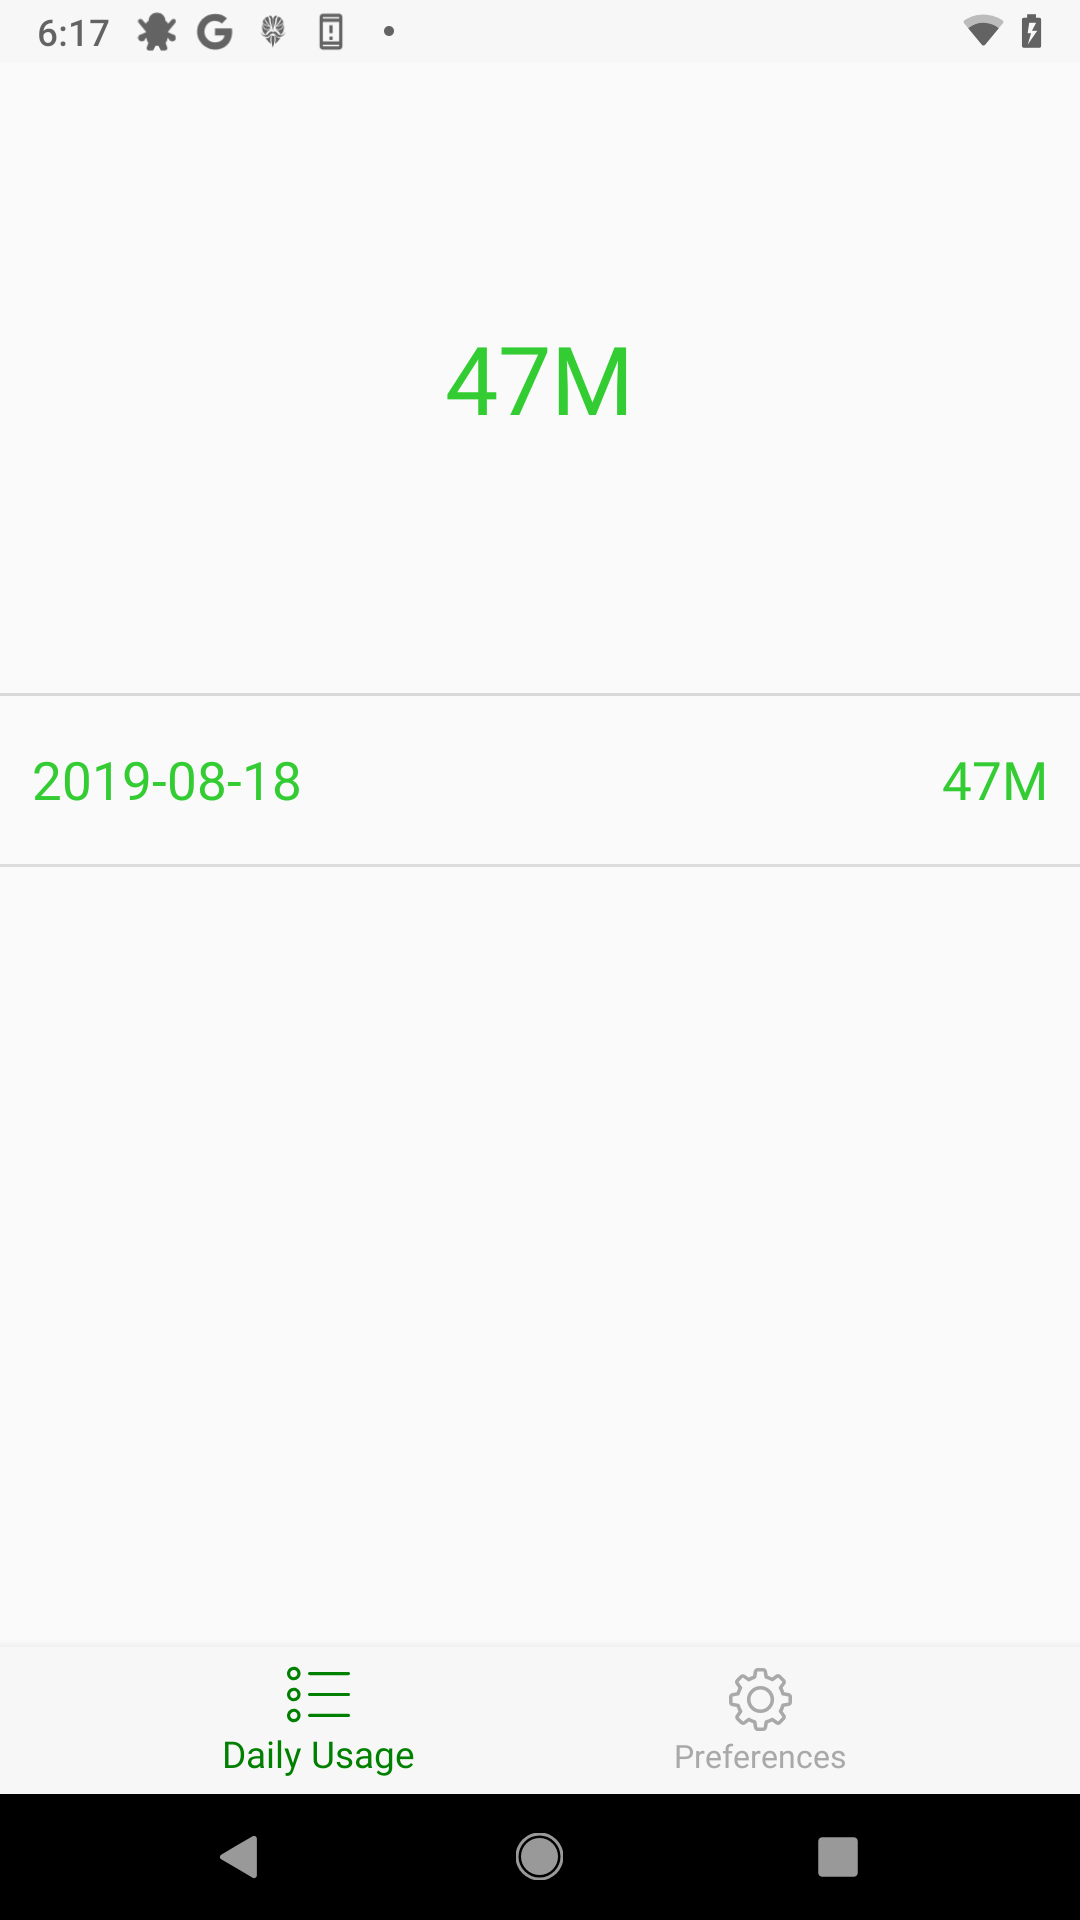
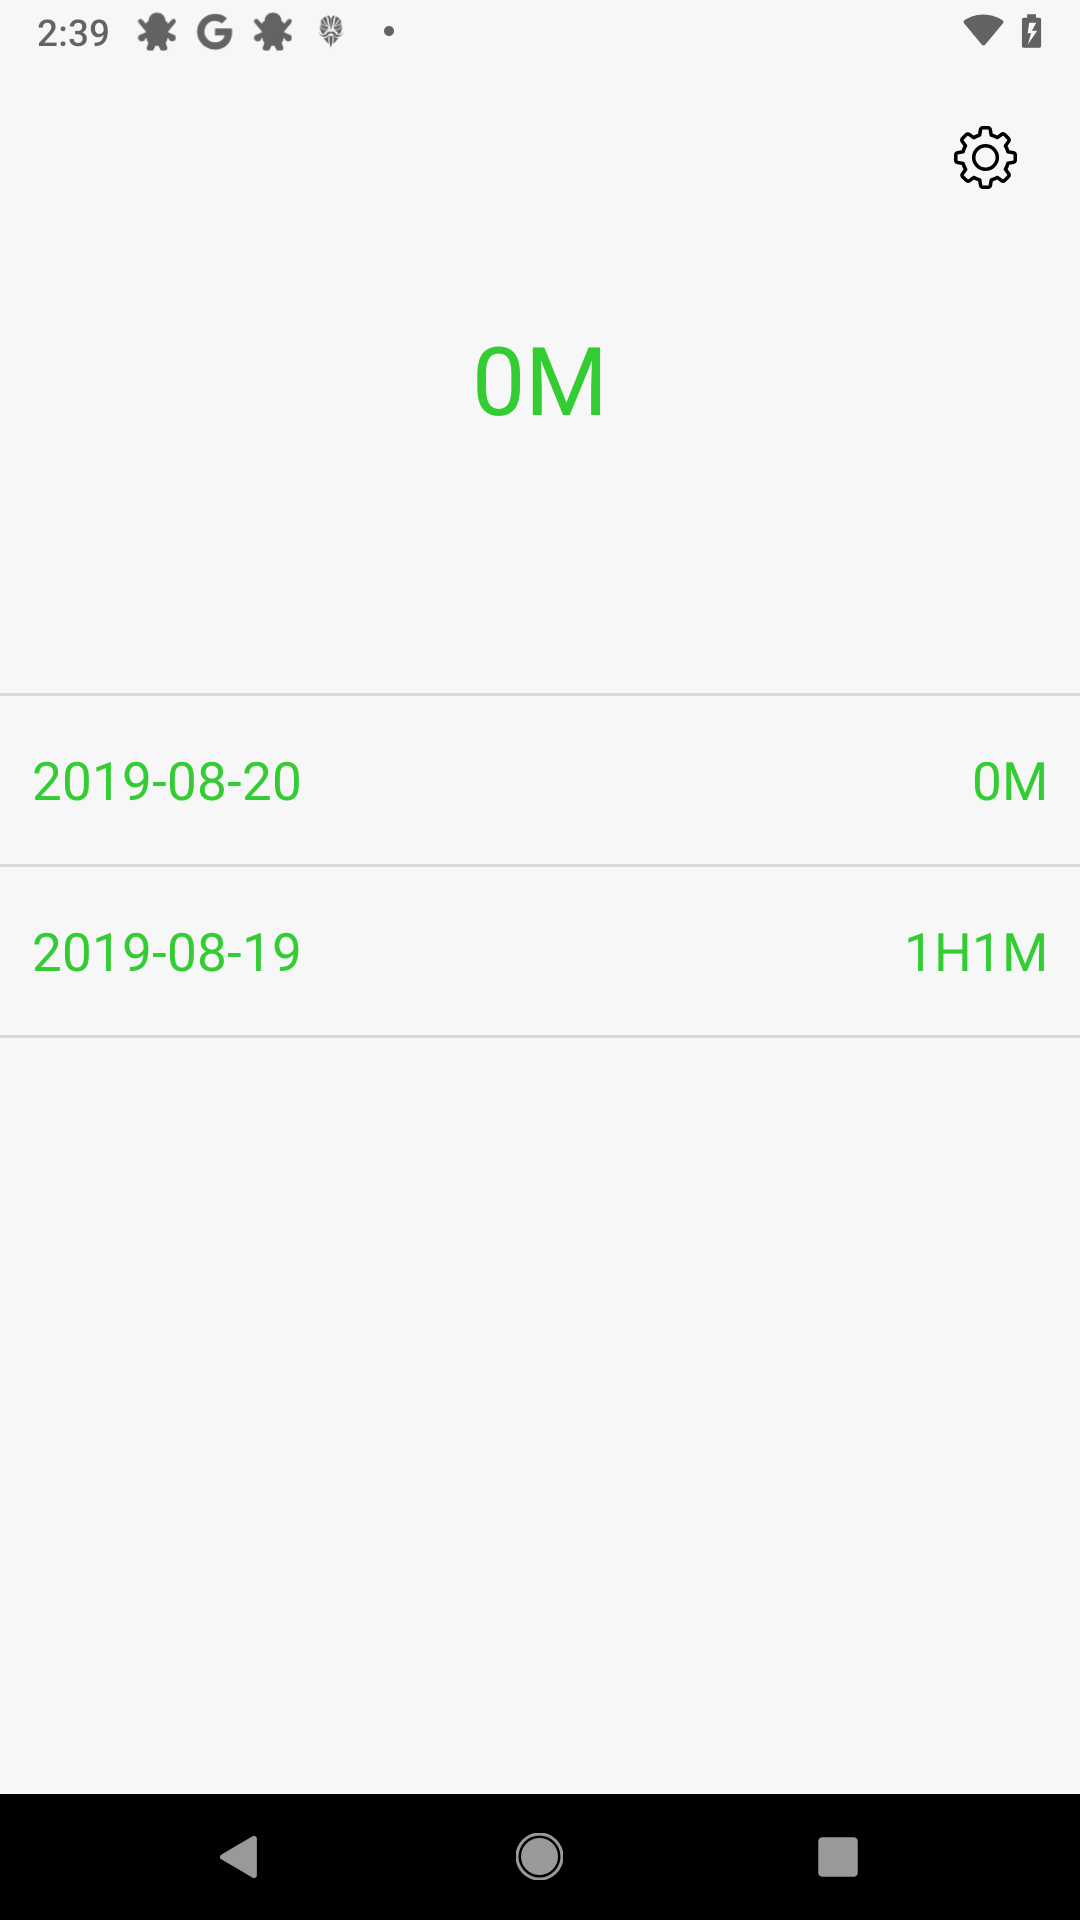
Yuchen/prepare 1.01 build (#15)
* release_1.0.1_prepare

* images_updated

* refine_readme

diff --git a/README.md b/README.md
@@ -12,6 +12,8 @@ So that's why I created Turtle. I use "Turtle" as the name because I want to slo
 
 ## Current States
 
+- 2019.8.20 Version 1.0.1 released, we add preference to this app to enable users to change their limits on phone usage and single app usage. Also we fixed a bug of data mismatch issue.
+
 - 2019.8.18 Version 1.0.0 released, with app usage tracking and overall daily usage tracking, it is a highly useful tool for us to track our usage on mobile phones.  
 
 ## How to contribute
@@ -24,4 +26,5 @@ So that's why I created Turtle. I use "Turtle" as the name because I want to slo
 
 <img src="./docs/images/main.png" height="400px">Main frame</image>
 <img src="./docs/images/app_usage.png" height="400px">App usage</image>
+<img src="./docs/images/preference.png" height="400px">Preference</image>
 
